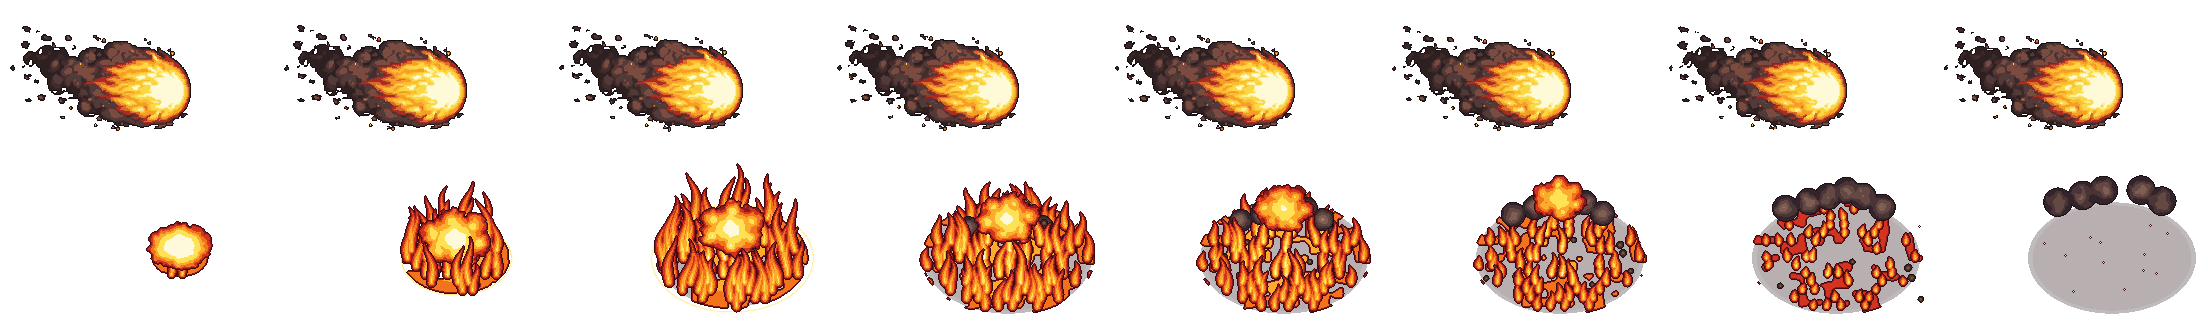
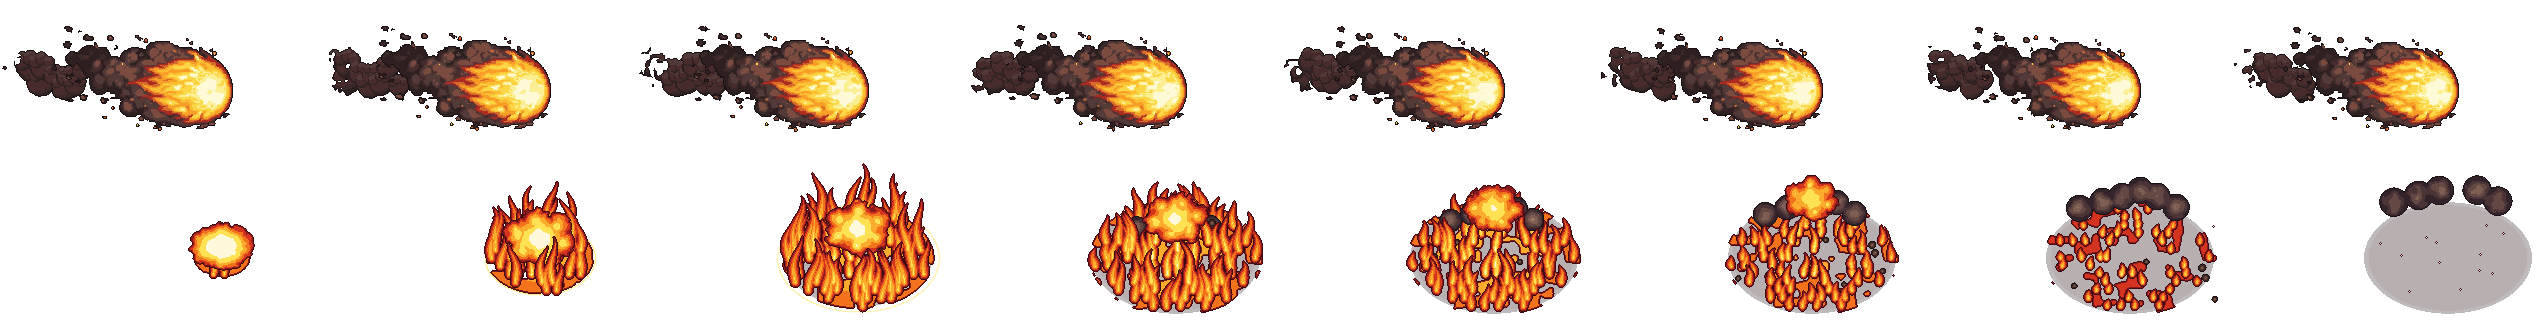
Fire set: the approved Fireball and Great Fireball (churning core, trailing smoke), regenerated from vfx-a-fire-v3.ts
Claude-Session: https://claude.ai/code/session_01E1PN8FTpA19jzx1FNkVfPu

diff --git a/docs/STATUS.md b/docs/STATUS.md
@@ -162,6 +162,8 @@ Merge checks (`git merge-tree` on the origin tips, nothing changed):
 - `ryusei-phase-owner-reference.jpg` and `poses/warp-throw-owner-reference.jpg` (on those branches)
   are the same image.
 
+- Decided 2026-10-23: the owner approved the Fireball / Great Fireball core animation and smoke trail (`vfx/fireball-core-smoke`, "aprovado") and the Chidori ground cracks ("me gusta ese efecto electrico en la tierra aprovado"); both are in the game.
+
 ## 3. Waiting for the owner
 
 - `jutsu/tide-s` (2026-10-22): the Dragon Tsunami is approved (look, rank S, names, numbers for now).
